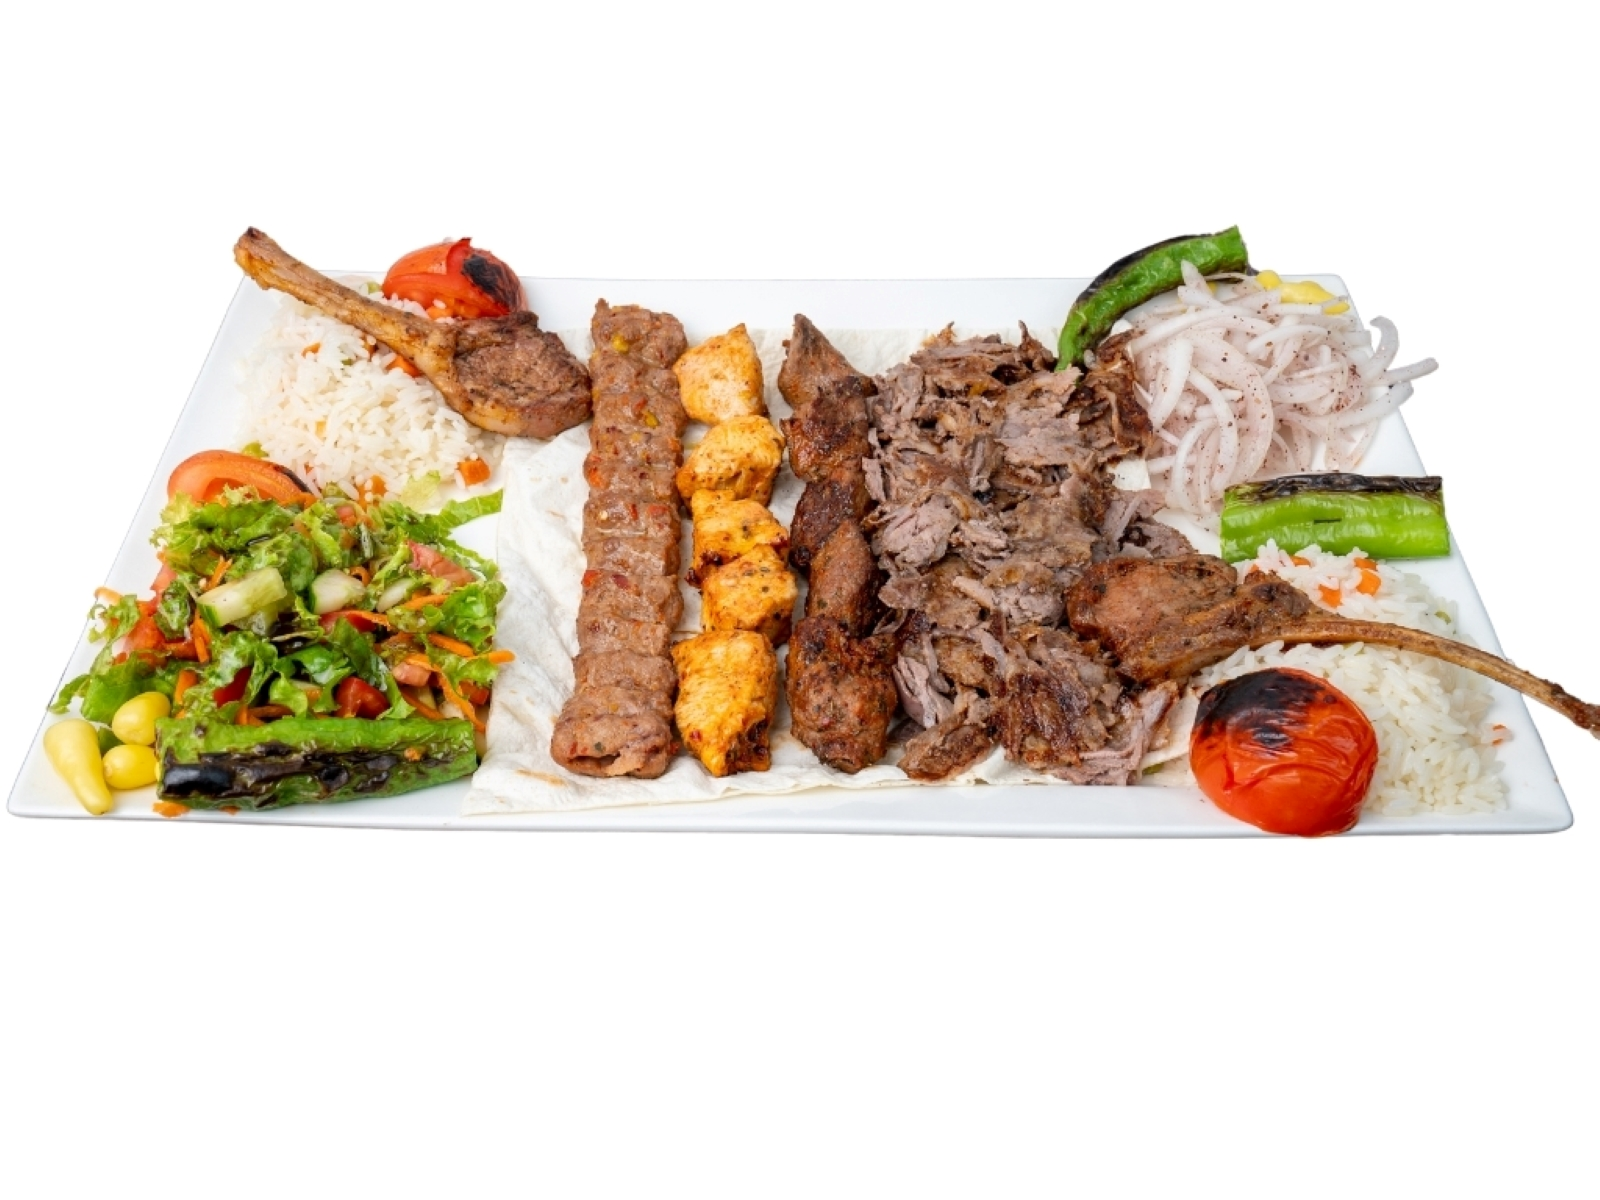
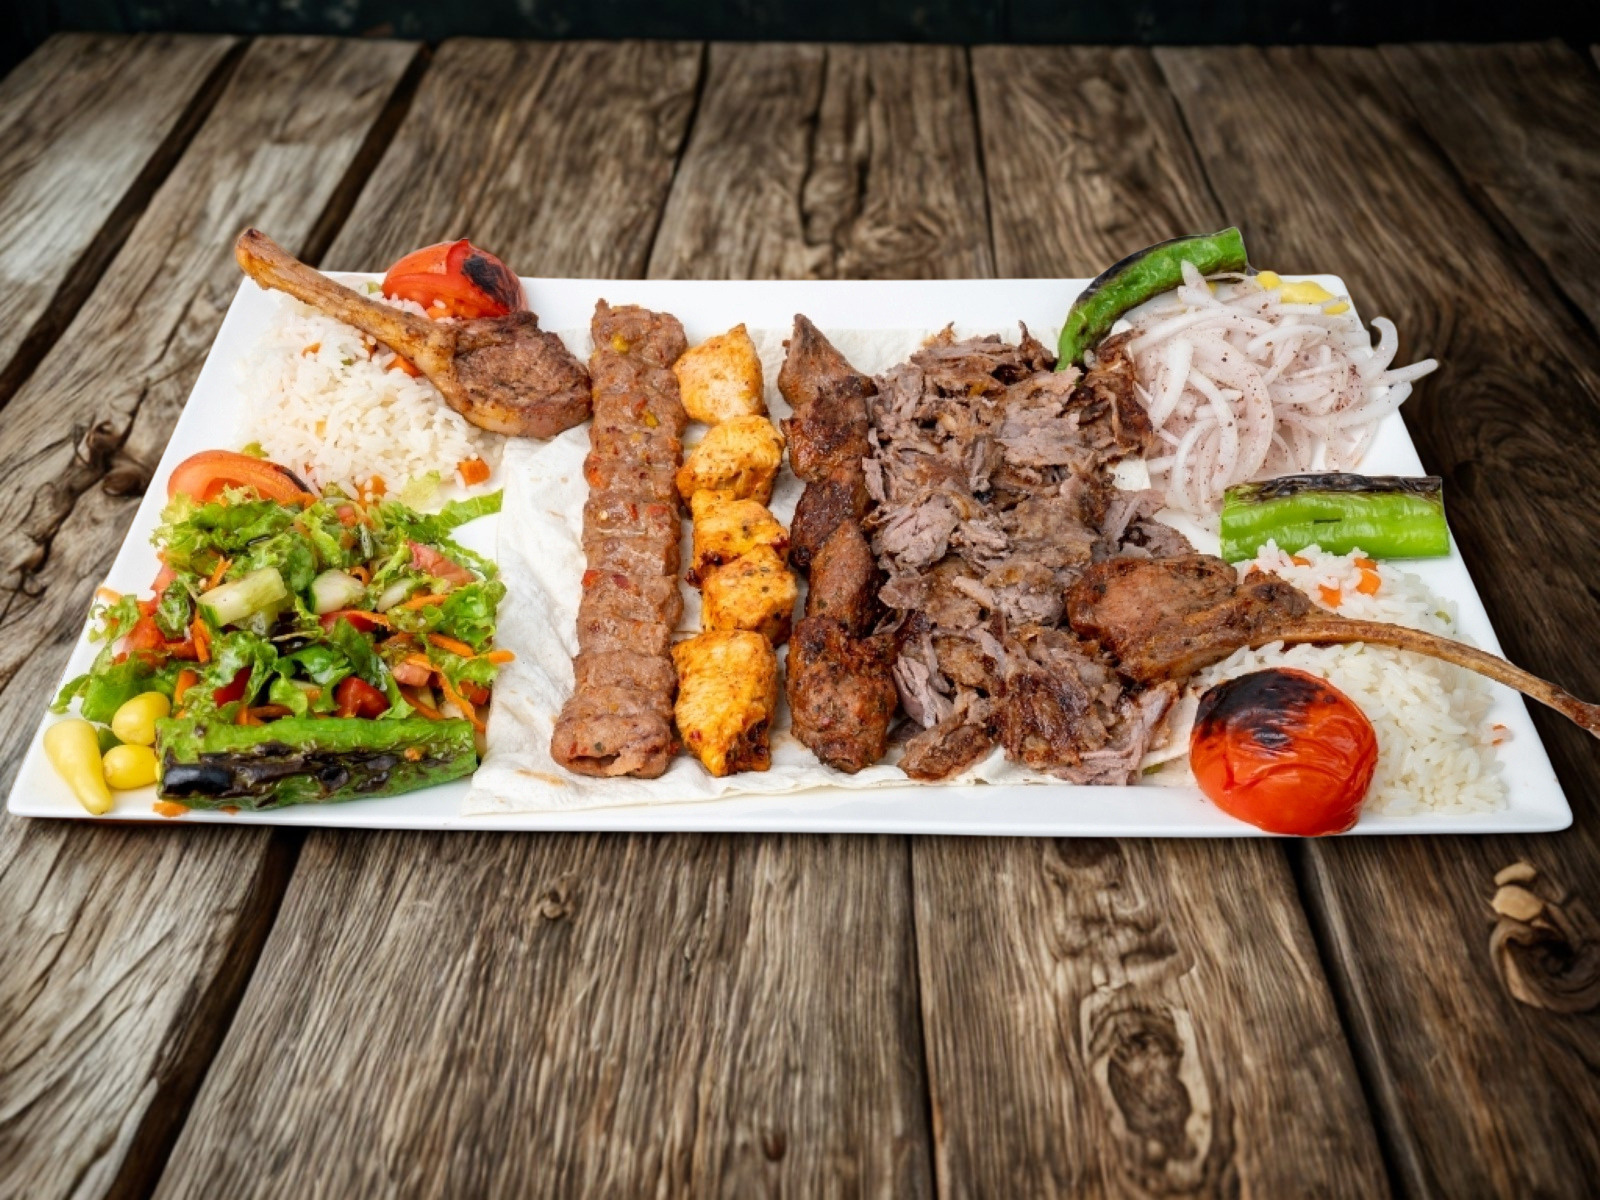
Wire up 3 new Pide photos + refresh 3 kebab photos
Pides:
- Lahmacun (XL 18") → Lahmacun (XL-18).png
- Four-Section Pide → Four-Section Pide.jpg
- Soujouk and Mozzarella Pide → Soujouk and Mozarella Pide.png
- Mix Meat Pide: drop the image reference, the source file
  (12 Mix Pide.jpg) was deleted from the folder. Card falls back
  to the butter-yellow typographic placeholder until a new photo
  lands.

Kebabs: pick up re-saved versions of Wings, Kofte, and Mixed Kebab
Platter for 2-3 (probably color-corrected or re-cropped — names
unchanged).

NOT included in this commit: public/videos/adana.mp4 (now 194 MB,
over Cloudflare's 25 MB cap) and the 7 new MP4s in public/videos/.

diff --git a/lib/menu-data.ts b/lib/menu-data.ts
@@ -104,15 +104,15 @@ export const menuSections: MenuSection[] = [
     imageAlt:
       "A four-section Turkish pide on a wooden board at Meet and Eat featuring chicken, sausage and mozzarella, spinach and feta, and ground meat",
     items: [
-      { name: "Lahmacun (XL 18\")", description: "Thin flatbread topped with a savory mixture of minced meat, vegetables, and spices, served with fresh parsley, sumac, onions, and lemon.", price: 19, featured: true },
+      { name: "Lahmacun (XL 18\")", description: "Thin flatbread topped with a savory mixture of minced meat, vegetables, and spices, served with fresh parsley, sumac, onions, and lemon.", price: 19, featured: true, image: "/images/menu/Pides/Lahmacun (XL-18).png" },
       { name: "Kiymali Pide", description: "Turkish flatbread topped with minced meat, onions, and aromatic spices, baked to perfection.", price: 19, image: "/images/menu/Pides/19 Ground Beef Pide.jpg" },
       { name: "Mevlana Pide", description: "Flatbread topped with spiced minced beef, a mix of vegetables, and feta cheese.", price: 20, image: "/images/menu/Pides/20 Mevlana.jpg" },
       { name: "Kusbasili Pide", description: "Flatbread topped with tender diced beef and aromatic spices, baked to perfection.", price: 25, image: "/images/menu/Pides/21 Kusbasili pide.jpg" },
       { name: "Doner Pide", description: "Flatbread filled with savory doner meat, baked to a golden finish.", price: 20, image: "/images/menu/Pides/10 Donerli pide.jpg" },
       { name: "Chicken Pide", description: "Flatbread topped with marinated chicken and fresh vegetables, baked to a crisp.", price: 17, image: "/images/menu/Pides/11 Chicken Pide.jpg" },
-      { name: "Four-Section Pide", description: "A flatbread baked to perfection, divided into four delicious sections: chicken, sausage and mozzarella, spinach and feta, and ground meat.", price: 21 },
-      { name: "Mix Meat Pide", description: "A rich and satisfying feast featuring a combination of minced meat, diced beef, and soujouk with mozzarella on pide.", price: 22, image: "/images/menu/Pides/12 Mix Pide.jpg" },
-      { name: "Soujouk and Mozzarella Pide", description: "Flatbread topped with savory sausage and melted mozzarella cheese, baked until golden.", price: 20 },
+      { name: "Four-Section Pide", description: "A flatbread baked to perfection, divided into four delicious sections: chicken, sausage and mozzarella, spinach and feta, and ground meat.", price: 21, image: "/images/menu/Pides/Four-Section Pide.jpg" },
+      { name: "Mix Meat Pide", description: "A rich and satisfying feast featuring a combination of minced meat, diced beef, and soujouk with mozzarella on pide.", price: 22 },
+      { name: "Soujouk and Mozzarella Pide", description: "Flatbread topped with savory sausage and melted mozzarella cheese, baked until golden.", price: 20, image: "/images/menu/Pides/Soujouk and Mozarella Pide.png" },
       { name: "Mushroom Pide", description: "Flatbread topped with mushrooms, peppers, cheese, and butter, baked to perfection.", price: 17, dietary: ["vegetarian"], image: "/images/menu/Pides/Mushroom Pide.jpg" },
       { name: "Spinach & Feta Pide", description: "Flatbread topped with fresh spinach and feta cheese, enhanced with herbs and spices.", price: 17, dietary: ["vegetarian"], image: "/images/menu/Pides/Spinach and Feta Cheese Pide.jpg" },
       { name: "Mozzarella Pide", description: "Flatbread topped with mozzarella cheese, baked until golden and crispy.", price: 17, dietary: ["vegetarian"], image: "/images/menu/Pides/29 Mozerella pide.jpg" },
